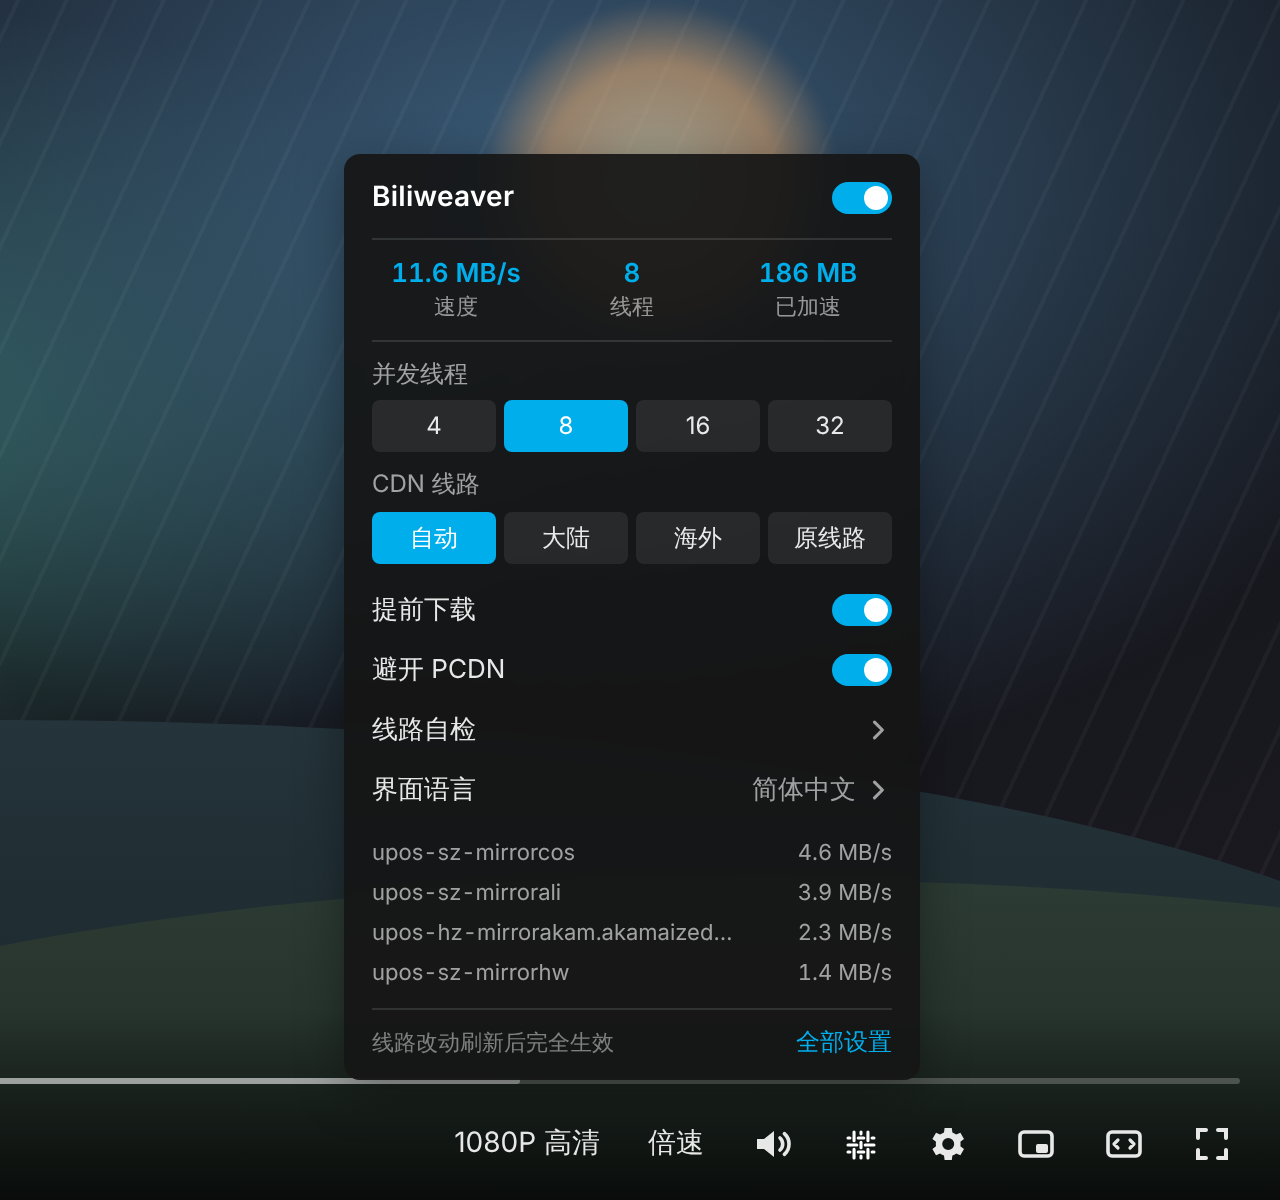
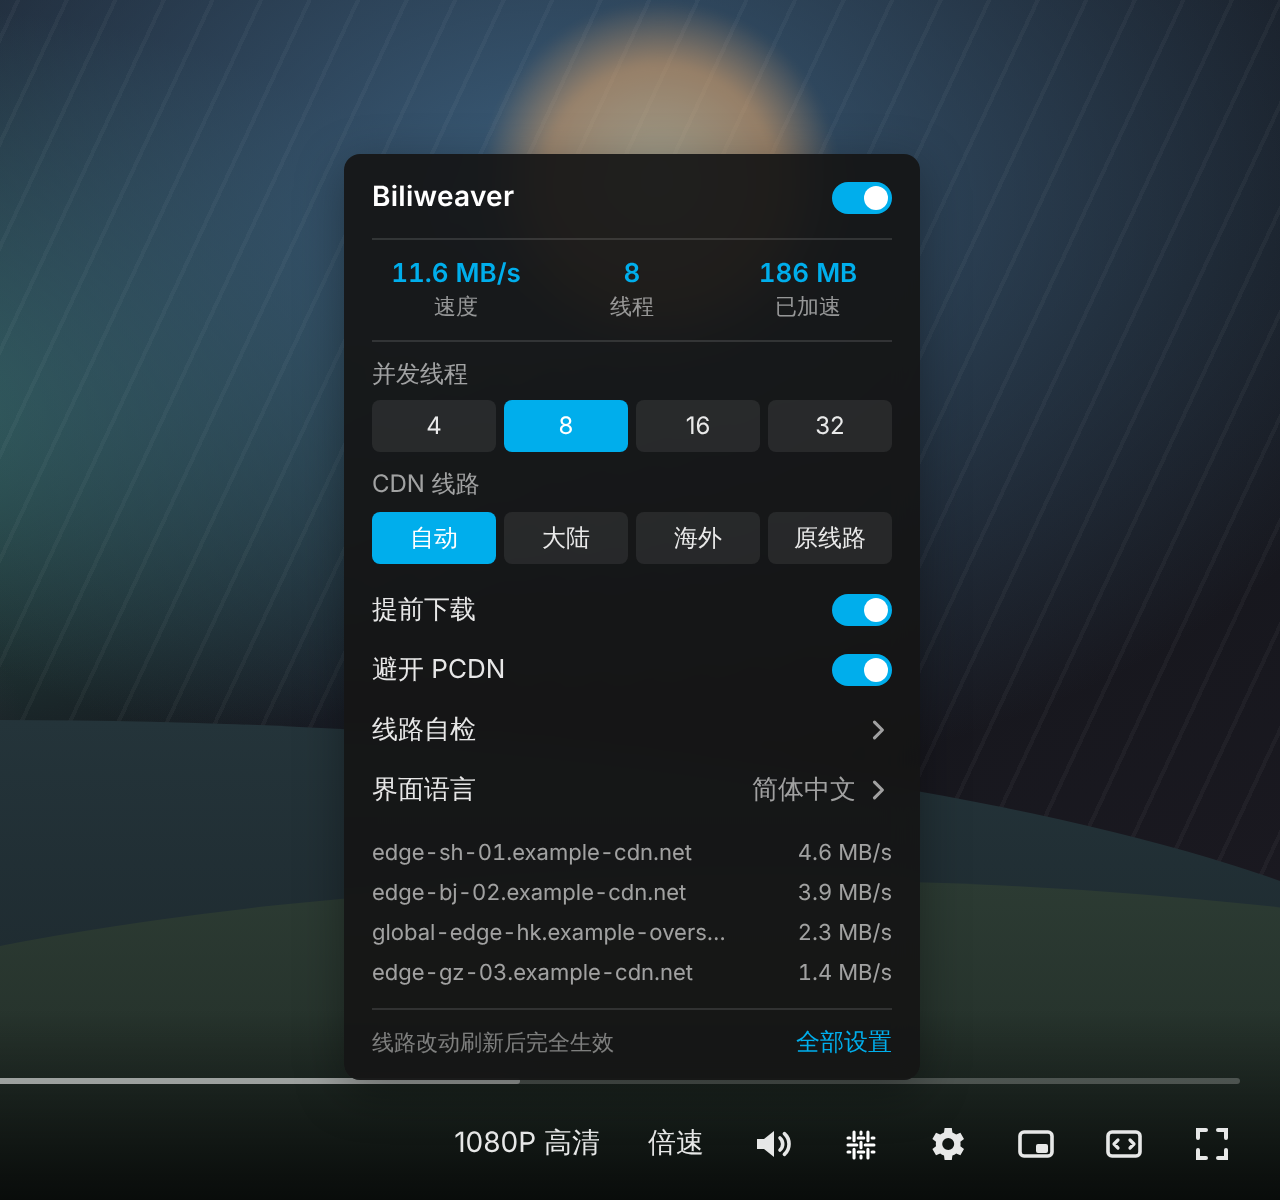
Biliweaver 1.3.2

Changed region(s): [[0.2812, 0.7092, 0.5625, 0.8325]]

diff --git a/README.md b/README.md
@@ -18,7 +18,9 @@ A Chrome extension that splits the bilibili player's video segment requests into
 <p align="center">
   <img src="docs/images/player-panel.png" width="560" alt="播放器里的 Biliweaver 面板 / The Biliweaver panel inside the player">
 </p>
-<p align="center"><sub>播放器控制栏里的 Biliweaver 面板 · The Biliweaver panel in the player's control bar · プレーヤー内の Biliweaver パネル</sub></p>
+播放器控制栏里的 Biliweaver 面板。
+
+The Biliweaver panel in the player's control bar.
 
 ## 安装 / Install
 
@@ -39,27 +41,34 @@ The full settings page has section navigation on the left (General, Video, CDN r
 <p align="center">
   <img src="docs/images/player-bar.png" width="600" alt="控制栏里的 Biliweaver 按钮 / The Biliweaver button in the control bar">
 </p>
-<p align="center"><sub>按钮和原生按钮对齐，鼠标悬停时会播放“编织”动画 · The button lines up with the native ones and plays a weaving animation on hover</sub></p>
+
+控制栏里的 Biliweaver 按钮，尺寸和间距会自动对齐旁边的原生按钮。
+
+The Biliweaver button in the control bar, matched in size and spacing to the native buttons next to it.
 
 <p align="center">
-  <img src="docs/images/button-hover.gif" width="120" alt="按钮悬停动画 / Button hover animation">
+  <img src="docs/images/settings.png" width="720" alt="完整设置页 / Full settings page">
 </p>
 
-<table>
-  <tr>
-    <td width="62%"><img src="docs/images/settings.png" alt="完整设置页 / Full settings page"></td>
-    <td width="38%"><img src="docs/images/popup.png" alt="工具栏弹窗 / Toolbar popup"></td>
-  </tr>
-  <tr>
-    <td align="center"><sub>完整设置页：左侧分组导航，每项都有说明 · Full settings with section navigation</sub></td>
-    <td align="center"><sub>工具栏弹窗：常用设置和实时数据 · Toolbar popup with live stats</sub></td>
-  </tr>
-</table>
+完整设置页：左侧是分组导航，右侧每一项都有标题和一句说明。
+
+The full settings page: section navigation on the left, and a title with a one line explanation for every setting on the right.
+
+<p align="center">
+  <img src="docs/images/popup.png" width="300" alt="工具栏弹窗 / Toolbar popup">
+</p>
+
+工具栏弹窗：常用设置和当前页面的实时数据。
+
+The toolbar popup: the most used settings and live stats for the current page.
 
 <p align="center">
   <img src="docs/images/settings-about-ja.png" width="720" alt="日文界面的关于页 / About page in Japanese">
 </p>
-<p align="center"><sub>界面支持简体中文、English、日本語（图为日文的“关于”页） · Interface in Simplified Chinese, English and Japanese (About page shown in Japanese)</sub></p>
+
+界面支持简体中文、English 和日本語，图为日文的“关于”页。
+
+The interface comes in Simplified Chinese, English and Japanese; this is the About page in Japanese.
 
 ## 线路自检和诊断信息 / Route self test and diagnostics
 
@@ -69,17 +78,21 @@ The full settings page has section navigation on the left (General, Video, CDN r
 
 プレーヤーパネルと設定画面の「動作状況」にある「ルートの自己診断」は、現在の動画の候補ホストすべてに小さなデータを要求し、利用できるか、初回応答の遅延と速度を一覧表示します。結果はすぐにホストの優先度にも反映されます。「インポート/エクスポート」の「診断情報をエクスポート」では、バージョン、ブラウザ、設定、ホストの状態、最近のエラー、前回の診断結果をコピーまたはダウンロードできます。ページタイトルや動画アドレスは含みません。[Issues](https://github.com/ShinyAkira106/biliweaver/issues/new) に添付していただくと原因を特定しやすくなります。
 
-<table>
-  <tr>
-    <td width="45%"><img src="docs/images/player-selftest.png" alt="播放器面板里的线路自检 / Self test in the player panel"></td>
-    <td width="55%"><img src="docs/images/settings-status.png" alt="设置页运行状态里的线路自检 / Self test on the Status page"></td>
-  </tr>
-  <tr>
-    <td align="center"><sub>播放器面板里的线路自检 · Self test in the player panel</sub></td>
-    <td align="center"><sub>设置页“运行状态” · Status page in the settings</sub></td>
-  </tr>
-</table>
-<p align="center"><sub>截图中的线路和速度为示例数据 · Hosts and speeds in these screenshots are example data · スクリーンショットの数値は例です</sub></p>
+<p align="center">
+  <img src="docs/images/player-selftest.png" width="480" alt="播放器面板里的线路自检 / Self test in the player panel">
+</p>
+
+播放器面板里的线路自检。
+
+The route self test in the player panel.
+
+<p align="center">
+  <img src="docs/images/settings-status.png" width="720" alt="设置页运行状态里的线路自检 / Self test on the Status page">
+</p>
+
+设置页“运行状态”里的线路自检。截图中的线路和速度为示例数据。
+
+The route self test on the settings Status page. Hosts and speeds in these screenshots are example data.
 
 ## 工作原理 / How it works
 
